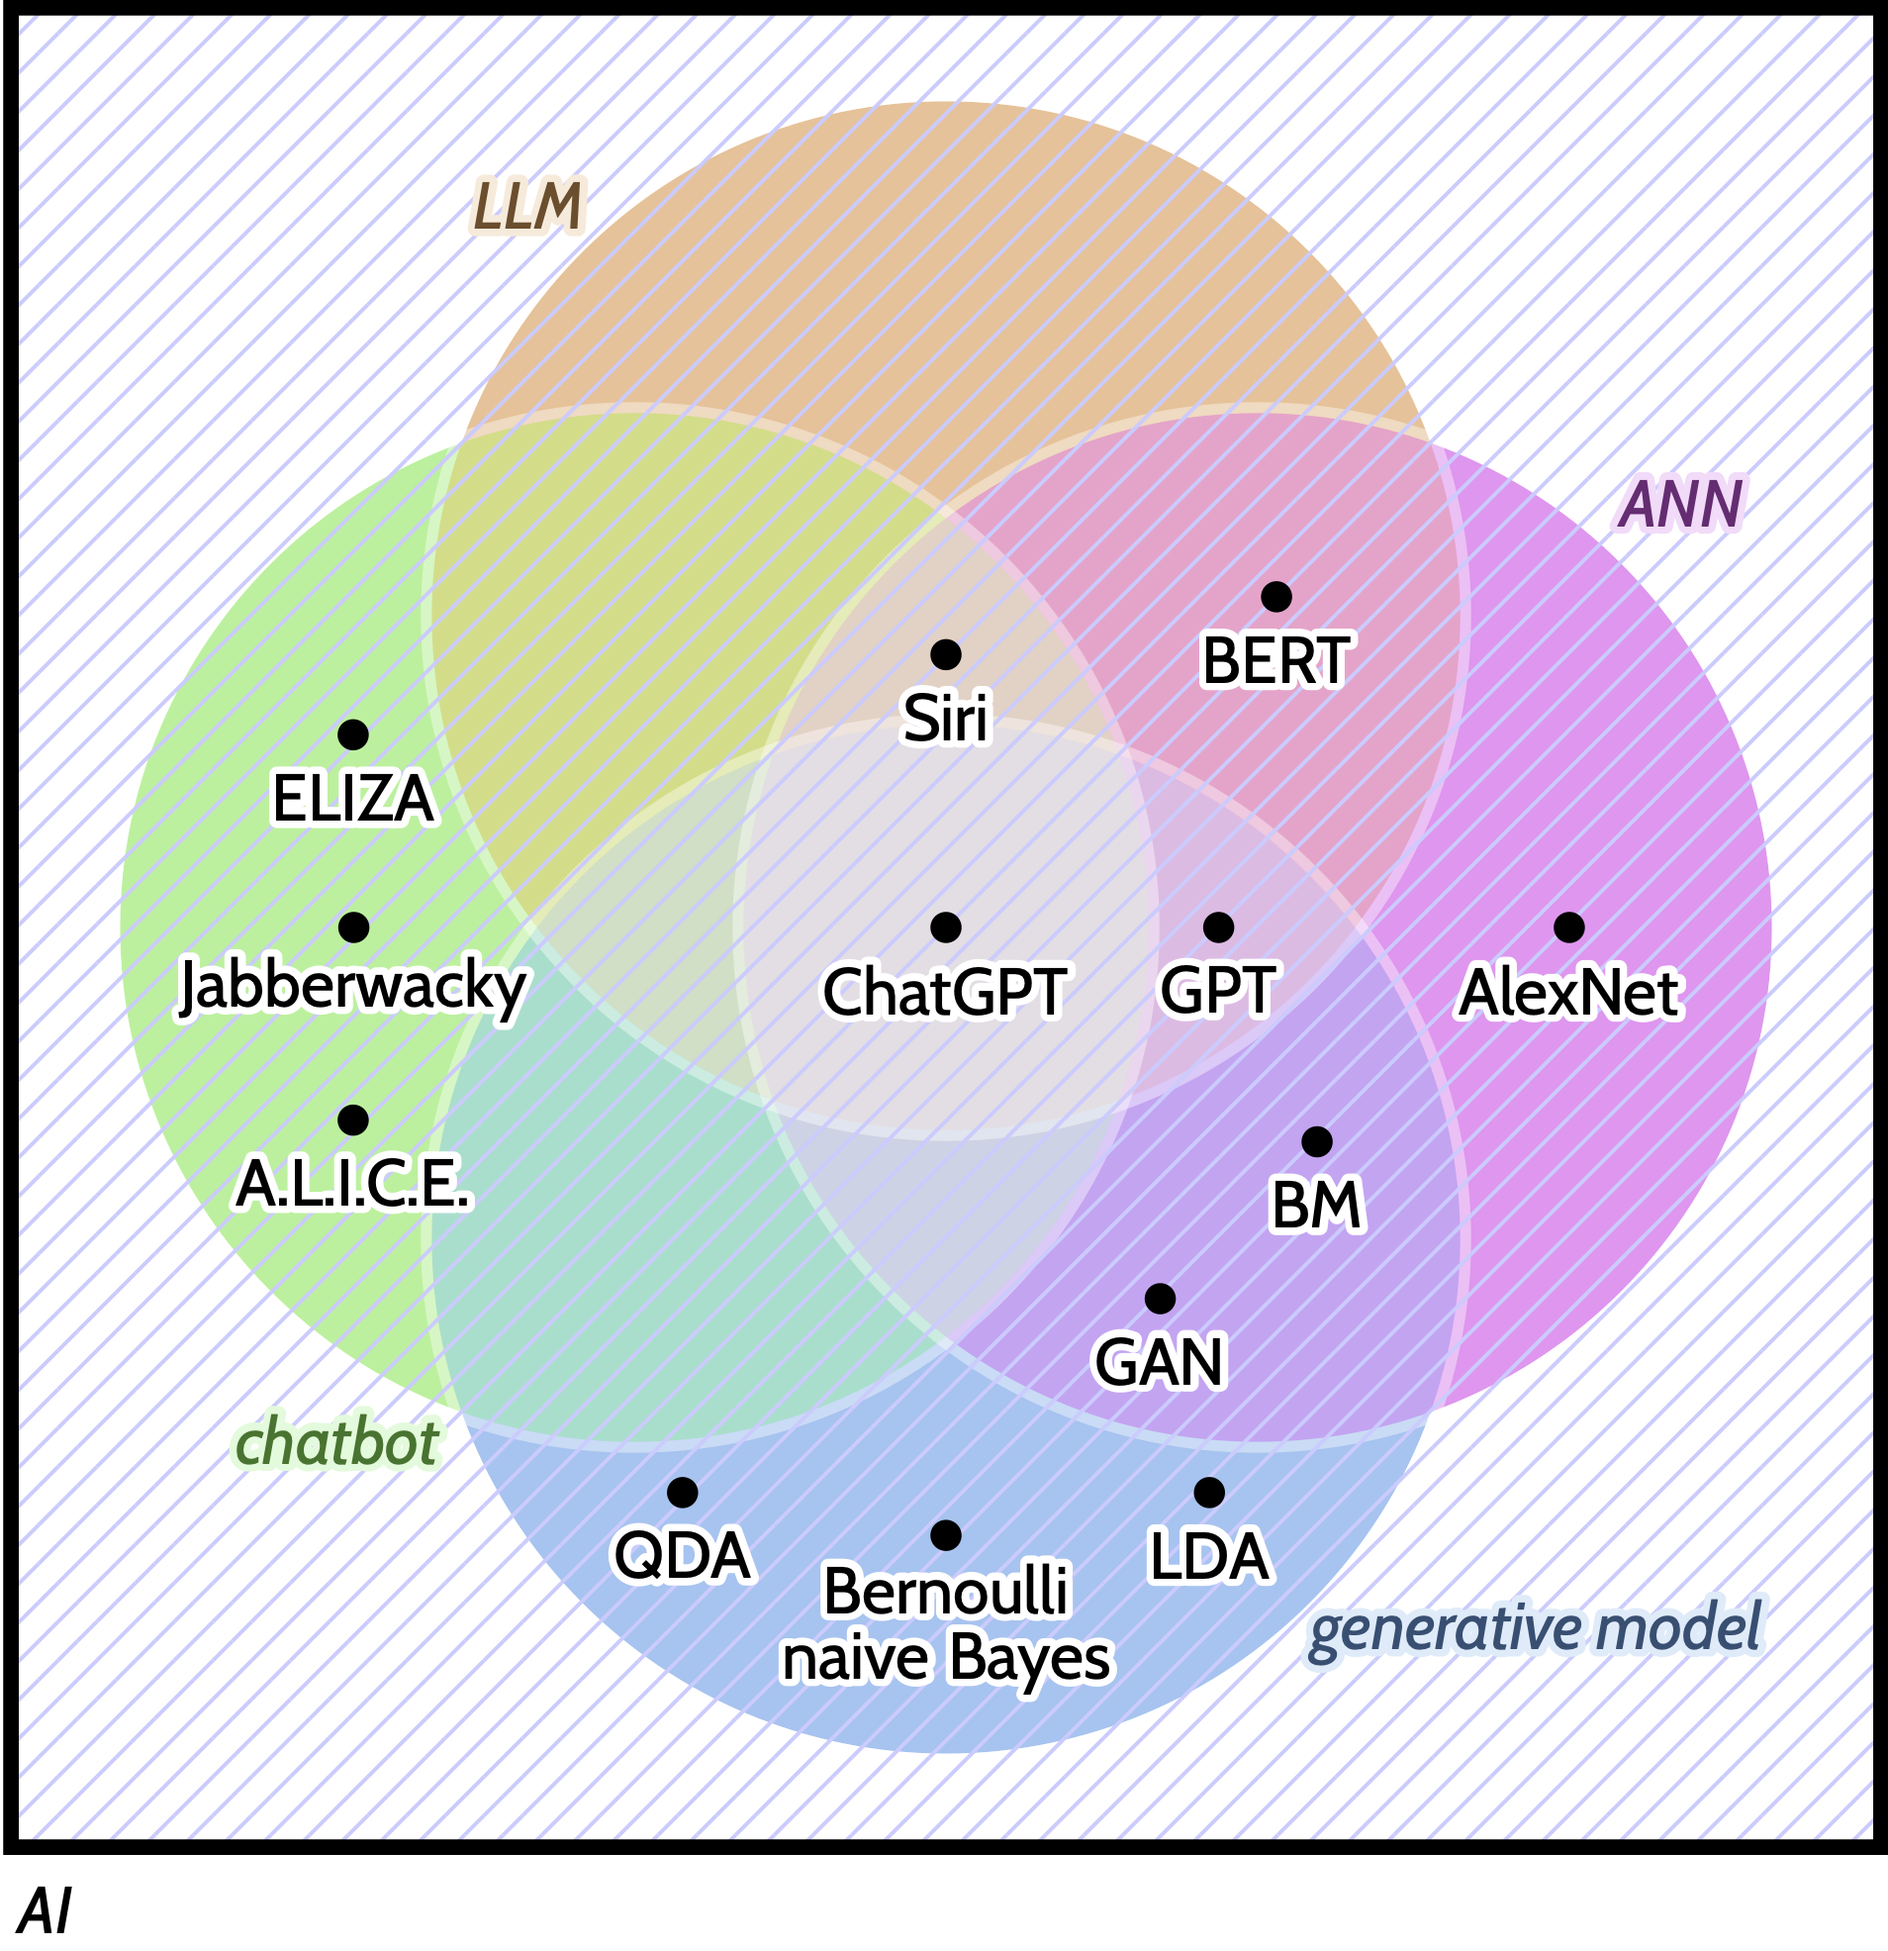
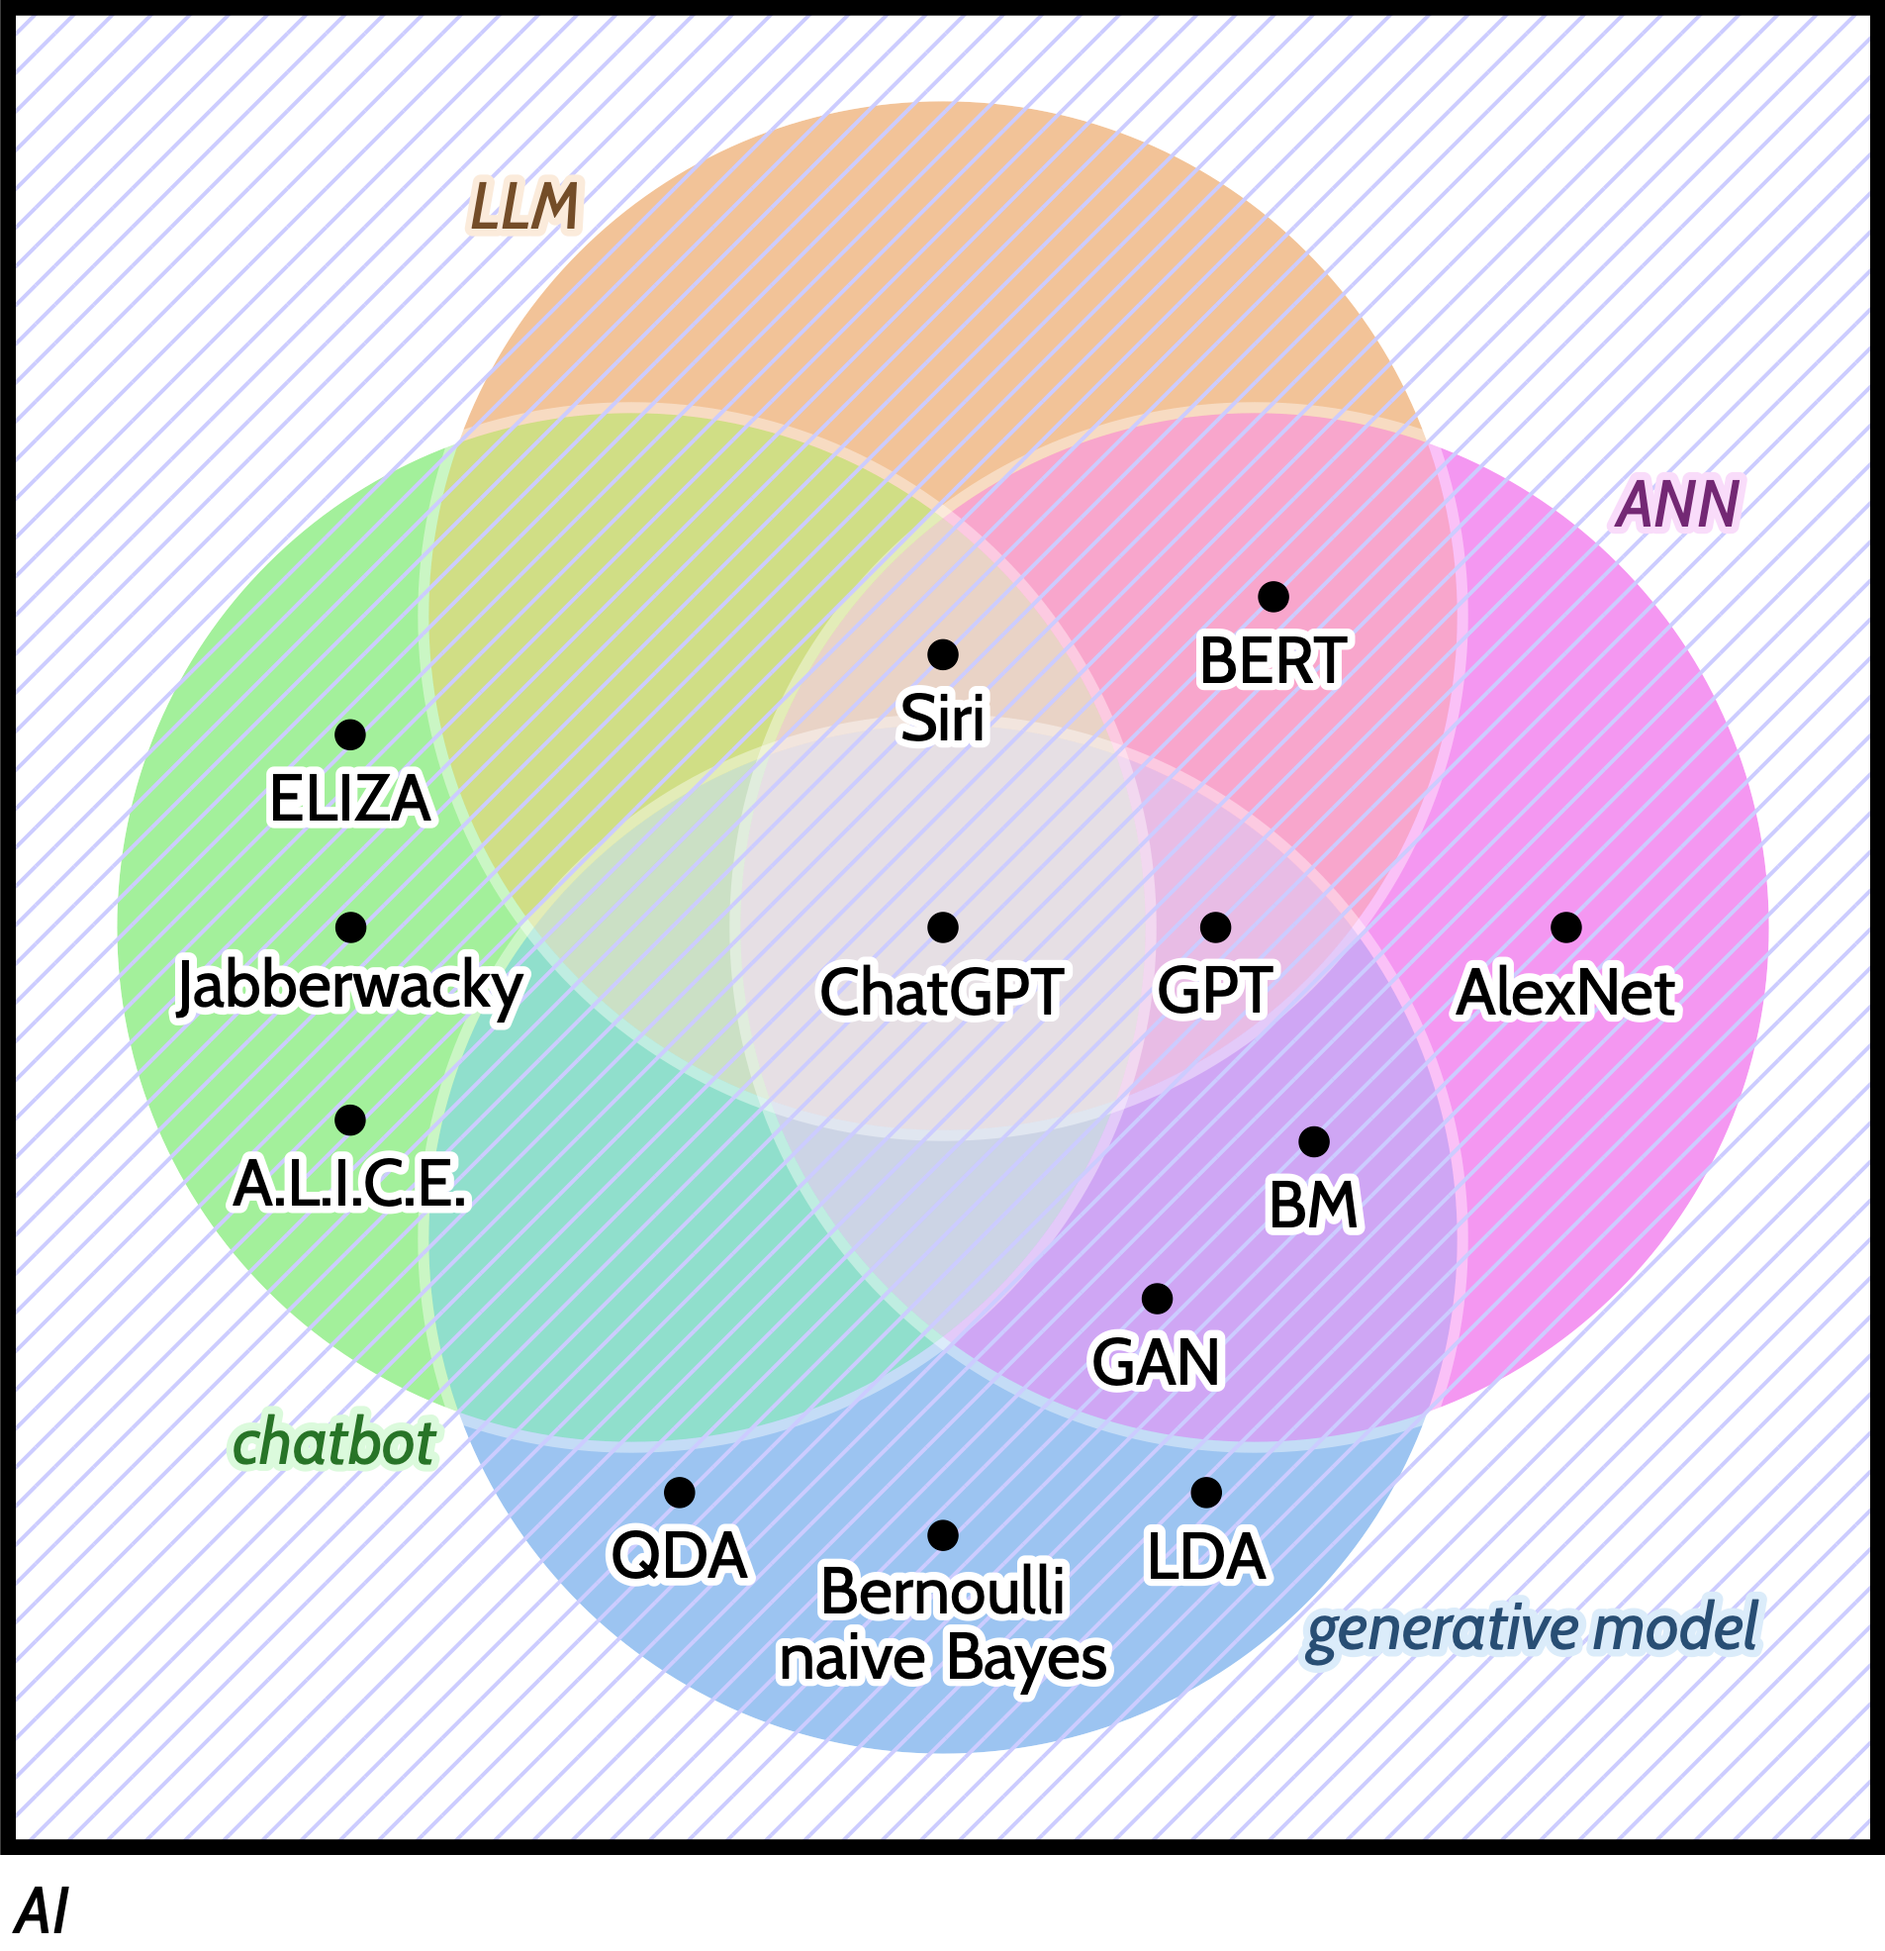
readability/beauty of fig

diff --git a/CAIL.html b/CAIL.html
@@ -101,7 +101,7 @@ description: "On this page are some resources for Critical AI Literacy (CAIL) fr
         <div class="col-12 col-5-md col-5-lg">
 
 
-                <div class="frame-figure bg-figure is-center">
+                <div class="frame-figure is-center">
                     <img src="{{ site.baseurl }}/images/Sets_AI.png" alt="icon" class="figure is-center">
                             <div class="extract is-center"><p>"A cartoon set theoretic view on various terms (see Table 1) used when discussing the superset AI (black outline, hatched background): LLMs are in orange; ANNs are in magenta; generative models are in blue; and finally, chatbots are in green." (<a href="https://doi.org/10.5281/zenodo.17065099">Guest et al., 2025</a>, figure 1)</p></div>
                 </div>
